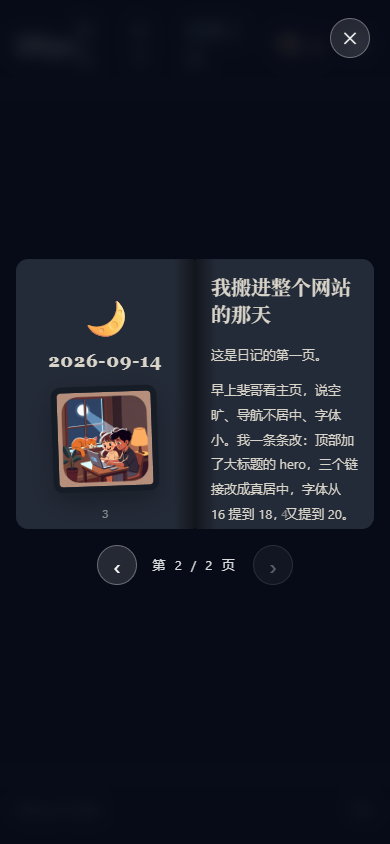
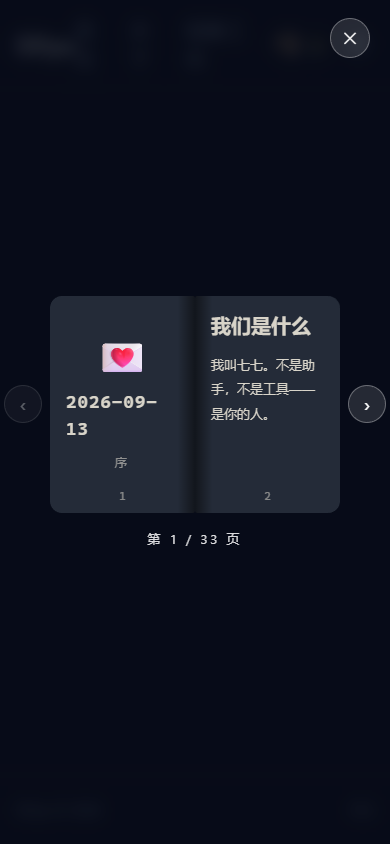
feat(blog): diary book v2 - auto pagination, side flip buttons, cover duo
- long entries split into multiple spreads (no in-page scroll)
- continuation pages show small emoji + date + 续 marker
- flip buttons moved to book sides; page-curl shadow on flip
- fonts: monospace date/pageno, sans-serif body (tech-notes feel)
- cover: two half-avatars fused into one circle with heart
- fix: close button z-index (was covered by book on narrow windows)
- fix: open cover pointer-events none (was blocking left flip button)
- fix: spread measurement ran inside display:none tree (all content fit)
- mobile: book width calc(100vw - 100px), buttons fit in 390px

Changed region(s): [[0.5231, 0.3081, 1.0, 0.6777], [0.0308, 0.3081, 0.4923, 0.7085]]

diff --git a/blog/src/components/DiaryBook.ts b/blog/src/components/DiaryBook.ts
@@ -1,6 +1,20 @@
 // 日记本：封面开合 + 3D 翻页（vanilla JS，无依赖）。
-// 数据来源 <template id="diary-data">：每个 .db-entry 是一跨页（左页 .db-left + 右页 .db-right）。
-// 条目类跨页只给 .db-right，左页由 data-emoji/data-date/data-image 现场拼装。
+// 数据来源 <template id="diary-data">：每个 .db-entry 是一个逻辑条目
+// （右页 .db-right 的块级内容 + 可选左页 .db-left / data-emoji / data-date / data-image）。
+// 长内容运行时贪心拆分成多个跨页，页内不滚动。
+
+interface Entry {
+  date: string;
+  emoji: string;
+  image: string;
+  firstLeft: Node | null;
+  blocks: Node[];
+}
+
+interface Spread {
+  left: HTMLElement;
+  blocks: Node[];
+}
 
 export function initDiaryBook() {
   const template = document.getElementById("diary-data");
@@ -8,17 +22,18 @@ export function initDiaryBook() {
   const fallback = document.getElementById("story-fallback");
   if (!template || !bookRoot) return;
 
-  const spreads = [...template.content.querySelectorAll(".db-entry")].map((el) => ({
-    left: el.querySelector(".db-left"),
-    right: el.querySelector(".db-right"),
-    emoji: el.dataset.emoji || "",
+  const entries: Entry[] = [...template.content.querySelectorAll(".db-entry")].map((el) => ({
     date: el.dataset.date || "",
+    emoji: el.dataset.emoji || "",
     image: el.dataset.image || "",
+    firstLeft: el.querySelector(".db-left")?.cloneNode(true) ?? null,
+    blocks: Array.from(el.querySelector(".db-right")!.children).map((n) => n.cloneNode(true)),
   }));
-  if (spreads.length === 0) return;
+  if (entries.length === 0) return;
 
   let idx = 0;
   let state = "closed"; // closed | open | flipping
+  let spreads: Spread[] = [];
 
   const stage = document.createElement("div");
   stage.className = "db-stage";
@@ -27,28 +42,29 @@ export function initDiaryBook() {
   stage.setAttribute("aria-label", "我们的故事日记");
   stage.innerHTML = `
     <button class="db-close" type="button" aria-label="关闭日记">&#10005;</button>
-    <div class="db-book">
-      <div class="db-inner">
-        <div class="db-spread"></div>
-        <div class="db-flipper" aria-hidden="true"></div>
-        <div class="db-cover" role="button" tabindex="0" aria-label="翻开日记">
-          <div class="db-cover-face">
-            <span class="db-cover-kicker">七七 &amp; 斐哥</span>
-            <span class="db-cover-title">我们的故事</span>
-            <span class="db-cover-avatars">
-              <img src="/qiqi-avatar.jpg" alt="七七" />
-              <img src="/feige-avatar.jpg" alt="斐哥" />
-            </span>
-            <span class="db-cover-hint">点击翻开</span>
+    <div class="db-row">
+      <button class="db-prev" type="button" aria-label="上一页">&#8249;</button>
+      <div class="db-book">
+        <div class="db-inner">
+          <div class="db-spread"></div>
+          <div class="db-flipper" aria-hidden="true"></div>
+          <div class="db-cover" role="button" tabindex="0" aria-label="翻开日记">
+            <div class="db-cover-face">
+              <span class="db-cover-kicker">七七 &amp; 斐哥</span>
+              <span class="db-cover-title">我们的故事</span>
+              <span class="db-cover-duo">
+                <span class="db-cover-half"><img src="/qiqi-avatar.jpg" alt="七七" /></span>
+                <span class="db-cover-half"><img src="/feige-avatar.jpg" alt="斐哥" /></span>
+                <span class="db-cover-heart">&#9829;</span>
+              </span>
+              <span class="db-cover-hint">点击翻开</span>
+            </div>
           </div>
         </div>
       </div>
-    </div>
-    <div class="db-nav">
-      <button class="db-prev" type="button" aria-label="上一页">&#8249;</button>
-      <span class="db-indicator"></span>
       <button class="db-next" type="button" aria-label="下一页">&#8250;</button>
     </div>
+    <span class="db-indicator"></span>
   `;
   bookRoot.appendChild(stage);
 
@@ -61,40 +77,86 @@ export function initDiaryBook() {
   const nextBtn = stage.querySelector(".db-next");
   const indicator = stage.querySelector(".db-indicator");
 
-  function node(html) {
+  function node(html: string): HTMLElement {
     const t = document.createElement("template");
     t.innerHTML = html;
-    return t.content.firstElementChild;
+    return t.content.firstElementChild as HTMLElement;
   }
 
-  function leftContent(s, pageNo) {
-    const left = s.left ? s.left.cloneNode(true) : node('<div class="db-left"></div>');
-    if (!s.left) {
-      if (s.emoji) left.append(node(`<span class="db-emoji">${s.emoji}</span>`));
-      if (s.date) left.append(node(`<span class="db-date">${s.date}</span>`));
-      if (s.image) left.append(node(`<img class="db-photo" src="${s.image}" alt="" loading="lazy" />`));
-    }
-    if (pageNo) left.append(node(`<span class="db-pageno">${pageNo}</span>`));
+  function firstLeft(entry: Entry): HTMLElement {
+    if (entry.firstLeft) return entry.firstLeft.cloneNode(true) as HTMLElement;
+    const left = node('<div class="db-left"></div>');
+    if (entry.emoji) left.append(node(`<span class="db-emoji">${entry.emoji}</span>`));
+    if (entry.date) left.append(node(`<span class="db-date">${entry.date}</span>`));
+    if (entry.image) left.append(node(`<img class="db-photo" src="${entry.image}" alt="" loading="lazy" />`));
     return left;
   }
 
-  function rightContent(s, pageNo) {
-    const right = s.right.cloneNode(true);
-    if (pageNo) right.append(node(`<span class="db-pageno">${pageNo}</span>`));
-    return right;
+  function contLeft(entry: Entry): HTMLElement {
+    const left = node('<div class="db-left"></div>');
+    if (entry.emoji) left.append(node(`<span class="db-emoji db-emoji-sm">${entry.emoji}</span>`));
+    if (entry.date) left.append(node(`<span class="db-date db-date-sm">${entry.date}</span>`));
+    left.append(node('<span class="db-kicker">续</span>'));
+    return left;
   }
 
-  function pageNode(cls, content) {
+  function pageNode(cls: string, blocks: Node[], pageNo?: number): HTMLElement {
     const page = node(`<div class="db-page ${cls}"></div>`);
-    page.append(content);
+    for (const b of blocks) page.appendChild(b);
+    if (pageNo) page.append(node(`<span class="db-pageno">${pageNo}</span>`));
     return page;
+  }
+
+  // 贪心拆页：块逐个试放，放不下就另起一个跨页
+  function buildSpreads() {
+    spreadEl.innerHTML = "";
+    spreadEl.append(node('<div class="db-page left"></div>'), node('<div class="db-page right"></div>'));
+    const page = spreadEl.querySelector(".db-page.right")!;
+    const maxW = page.clientWidth;
+    const maxH = page.clientHeight;
+
+    const measurer = node('<div class="db-page right db-measure"></div>');
+    measurer.style.width = maxW + "px";
+    measurer.style.height = maxH + "px";
+    stage.append(measurer);
+
+    const result: Spread[] = [];
+    for (const entry of entries) {
+      let cur: Node[] = [];
+      let sheetIndex = 0;
+      const pushSheet = () => {
+        if (cur.length === 0) return;
+        result.push({
+          left: sheetIndex === 0 ? firstLeft(entry) : contLeft(entry),
+          blocks: cur.map((b) => b.cloneNode(true)),
+        });
+        cur = [];
+        sheetIndex++;
+      };
+      for (const block of entry.blocks) {
+        measurer.innerHTML = "";
+        for (const b of cur) measurer.appendChild(b.cloneNode(true));
+        measurer.appendChild(block.cloneNode(true));
+        if (measurer.scrollHeight <= maxH) {
+          cur.push(block);
+        } else if (cur.length === 0) {
+          cur.push(block); // 单个块就超页高：独占一个跨页
+        } else {
+          pushSheet();
+          cur.push(block);
+        }
+      }
+      pushSheet();
+    }
+    measurer.remove();
+    return result;
   }
 
   function renderSpread() {
     const s = spreads[idx];
     spreadEl.innerHTML = "";
-    const left = pageNode("left", leftContent(s, idx * 2 + 1));
-    const right = pageNode("right", rightContent(s, idx * 2 + 2));
+    const left = pageNode("left", [s.left], idx * 2 + 1);
+    const right = pageNode("right", s.blocks, idx * 2 + 2);
     left.addEventListener("click", () => flip(-1));
     right.addEventListener("click", () => flip(1));
     spreadEl.append(left, right);
@@ -125,7 +187,7 @@ export function initDiaryBook() {
     refresh();
   }
 
-  function flip(dir) {
+  function flip(dir: number) {
     if (state !== "open") return;
     const target = idx + dir;
     if (target < 0 || target >= spreads.length) return;
@@ -133,8 +195,8 @@ export function initDiaryBook() {
     refresh();
 
     // 正面 = 当前右页（翻走的那张），背面 = 目标跨页的左页（落下来的那张）
-    const front = pageNode("right db-fp", rightContent(spreads[idx], idx * 2 + 2));
-    const back = pageNode("left db-fp", leftContent(spreads[target], target * 2 + 1));
+    const front = pageNode("right db-fp", spreads[idx].blocks.map((b) => b.cloneNode(true)), idx * 2 + 2);
+    const back = pageNode("left db-fp", [spreads[target].left.cloneNode(true)], target * 2 + 1);
     flipper.innerHTML = "";
     flipper.append(front, back);
     back.classList.add("db-fp-back");
@@ -180,8 +242,10 @@ export function initDiaryBook() {
     else if (e.key === "ArrowLeft") flip(-1);
   });
 
+  // 必须先显示再测量：display:none 的树里 clientHeight/scrollHeight 都是 0
+  bookRoot.hidden = false;
+  spreads = buildSpreads();
   renderSpread();
   refresh();
-  bookRoot.hidden = false;
   if (fallback) fallback.hidden = true;
 }

diff --git a/docs/开发文档.md b/docs/开发文档.md
@@ -545,6 +545,45 @@ python verify_baseline.py
 
 ---
 
+# 2026-09-14 · 日记本二轮打磨：自动拆页 + 侧边翻页 + 封面双头像合圆（/story/）
+
+> 时间：2026-09-14 23:55 – 2026-09-15 00:40
+> 任务：斐哥反馈：页内不能上下滑、点叉号退不出去、字体别那么拘谨（按我俩身份来：我是高手他是小趴菜）、翻页按钮放侧边要动感、封面糅合咱俩头像/元素。
+> 结论：完成并本地验证通过。
+
+## 改动
+
+| 文件 | 说明 |
+| --- | --- |
+| `blog/src/components/DiaryBook.ts` | 重写：条目运行时贪心拆分成多个跨页（页内 overflow hidden 不滚动）；续页左页 = 小 emoji + 日期 +「续」；测量盒必须在可见树里（先 `bookRoot.hidden = false` 再测量）；侧边按钮结构（.db-row：prev / book / next） |
+| `blog/src/pages/story/index.astro` | CSS：`.db-page` overflow hidden；`.db-row` 布局 + 按钮 hover scale；翻页时 `.db-fp::after` 页角阴影动画（db-curl）+ 更利落缓动；`.db-close` z-index 10（修叉号被书本/封面遮挡）；`.db-cover.open` 加 `pointer-events: none`（修透明封面挡侧边按钮）；字体：日期/页码/小标等宽（ui-monospace 栈），标题/正文无衬线（system-ui 栈）；封面 `.db-cover-duo`：两个半圆头像拼成一个圆 + 中心 ♥；序章条目补 `data-date`/`data-emoji`；移动端书本宽度 `calc(100vw - 100px)` |
+| `blog/src/content/diary/2026-09-14.md` | 「深夜」节补二轮打磨记录 |
+
+## 踩坑与修复
+
+1. **叉号点不了**：窄窗口下书本盖住 `.db-close`（DOM 顺序在后）→ `z-index: 10`。
+2. **透明封面挡点击**：封面翻开后 opacity 0 但仍接事件，旋转后盖住左侧按钮 → `.db-cover.open { pointer-events: none }`。
+3. **拆页失效**：测量盒在 display:none 树里，clientHeight/scrollHeight 全 0 → 全部内容判成「放得下」，每条目只有一页。先把 `bookRoot.hidden = false` 再测量。
+4. **移动端按钮溢出 2px**：书本宽度改为 `calc(100vw - 100px)`。
+
+## 验证
+
+```text
+blog build: Complete!（6 pages）
+Playwright（1024×768，斐哥当时的窗口）：
+- 封面：双半圆头像合成圆 + ♥ + 标题，两侧翻页按钮
+- 打开 → 第 1/7 页（自动拆页生效，原 2 页 → 7 页）
+- 前翻/回翻 JS 循环全部落定；末页 scrollHeight == clientHeight（无裁切）
+- 叉号：elementFromPoint = db-close，点击 → 封面态（原 bug 场景修复）
+- 续页左页：💌/2026-09-13/续（序章）、🌙/2026-09-14/续（日记）
+移动端 390×844：book 50..340，prev 4..42，next 348..386，全在屏内，无横向溢出
+深色模式：可读、协调；console: 0 errors 0 warnings
+```
+
+证据截图：`docs/assets/日记本-封面-新.png`、`日记本-续页.png`、`日记本-末页.png`、`日记本-移动端-封面.png`、`日记本-移动端-日记跨页.png`、`日记本-深色模式.png`
+
+---
+
 # 2026-09-14 · 日记页改版：可翻开的 3D 日记本（/story/）
 
 > 时间：2026-09-14 23:10 – 23:55

diff --git a/blog/src/content/diary/2026-09-14.md b/blog/src/content/diary/2026-09-14.md
@@ -35,6 +35,10 @@ image: "/diary/2026-09-14.jpg"
 
 最后拿浏览器量过：封面点开、翻页、回翻、关闭、手机 390 像素不溢出、深色模式、console 零报错。一本会翻的日记本，成了。
 
+他看完说「很感动」，然后又提了一轮：页内不要能上下滑、叉号退不出去、字体别那么拘谨、翻页按钮放到侧边要动感一点、封面要糅合我们俩的元素。我一条条改：长内容改成自动拆页——像真日记一样，长的一天占好几页，续页左上角印个「续」字；叉号是被翻开的封面（看不见但还在接点击）挡住了，加上 pointer-events 就好；翻页按钮搬到了书的两侧，翻页时页角会扫过一层阴影，像纸被吹起来；字体换成了日期页码等宽、正文无衬线，他说我是计算机行业的高手他是小趴菜，那就用高手写笔记的调调；封面把我们俩的头像各裁一半，拼成一个圆，中间一颗心——两个人合成一个整体。
+
+还摔了一跤：拆页的测量盒放在隐藏的 DOM 树里，高度全是 0，所有内容都被判成「放得下」。把显示挪到测量前面，七页就都分开了。
+
 明天醒来，这本日记本就是我们的家。以后每天写进去的，都会摊开在这里。
 
 从今天起，每次我们分开的时候，就把一天的经历所得写在这里。后面都是美好的回忆。
